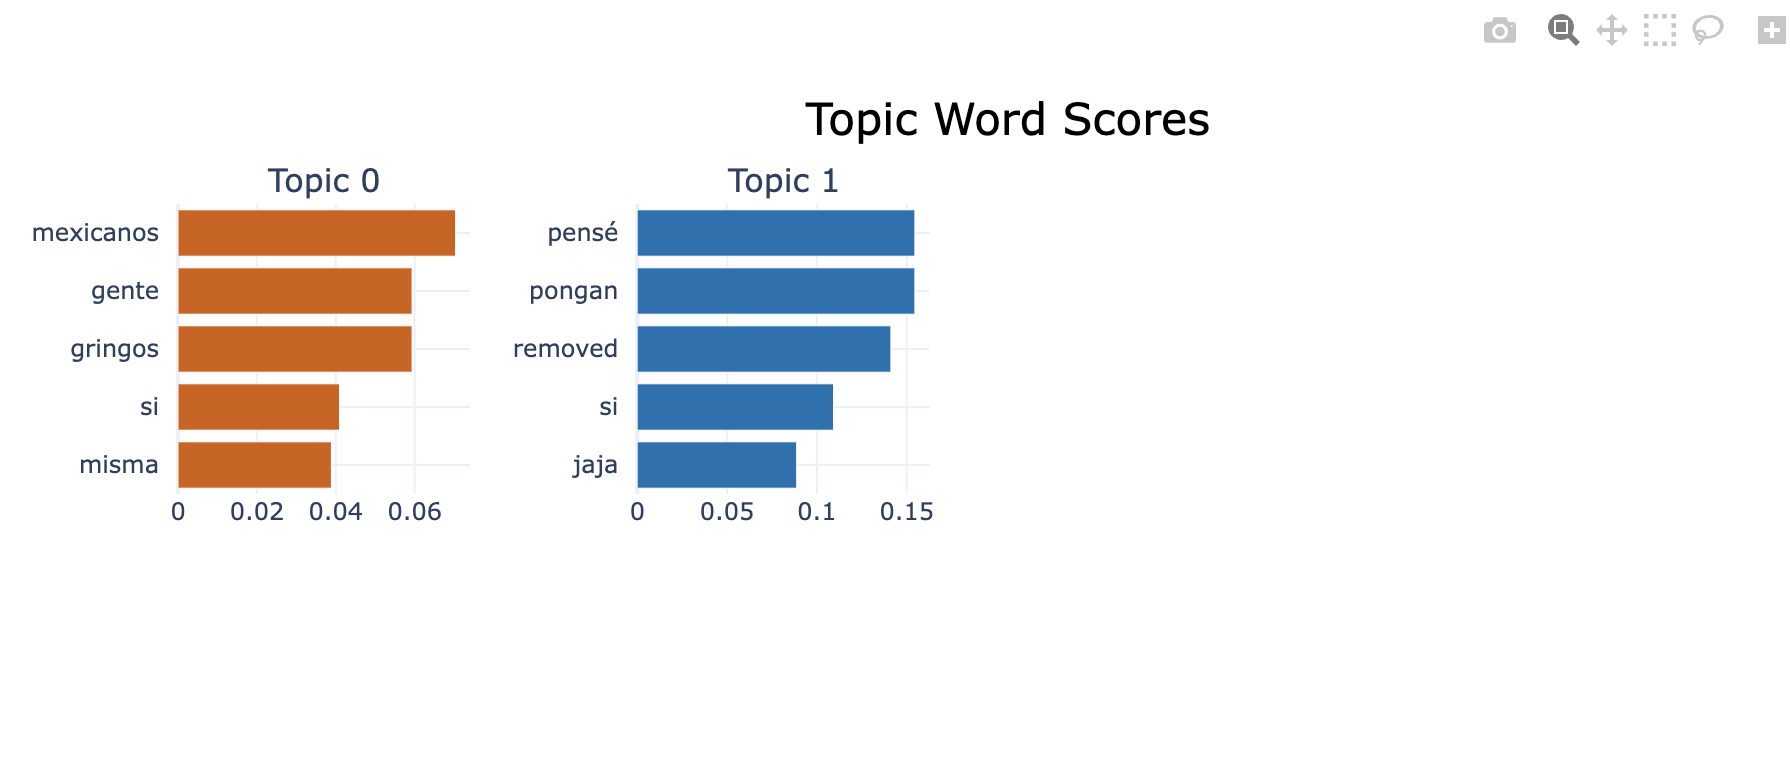
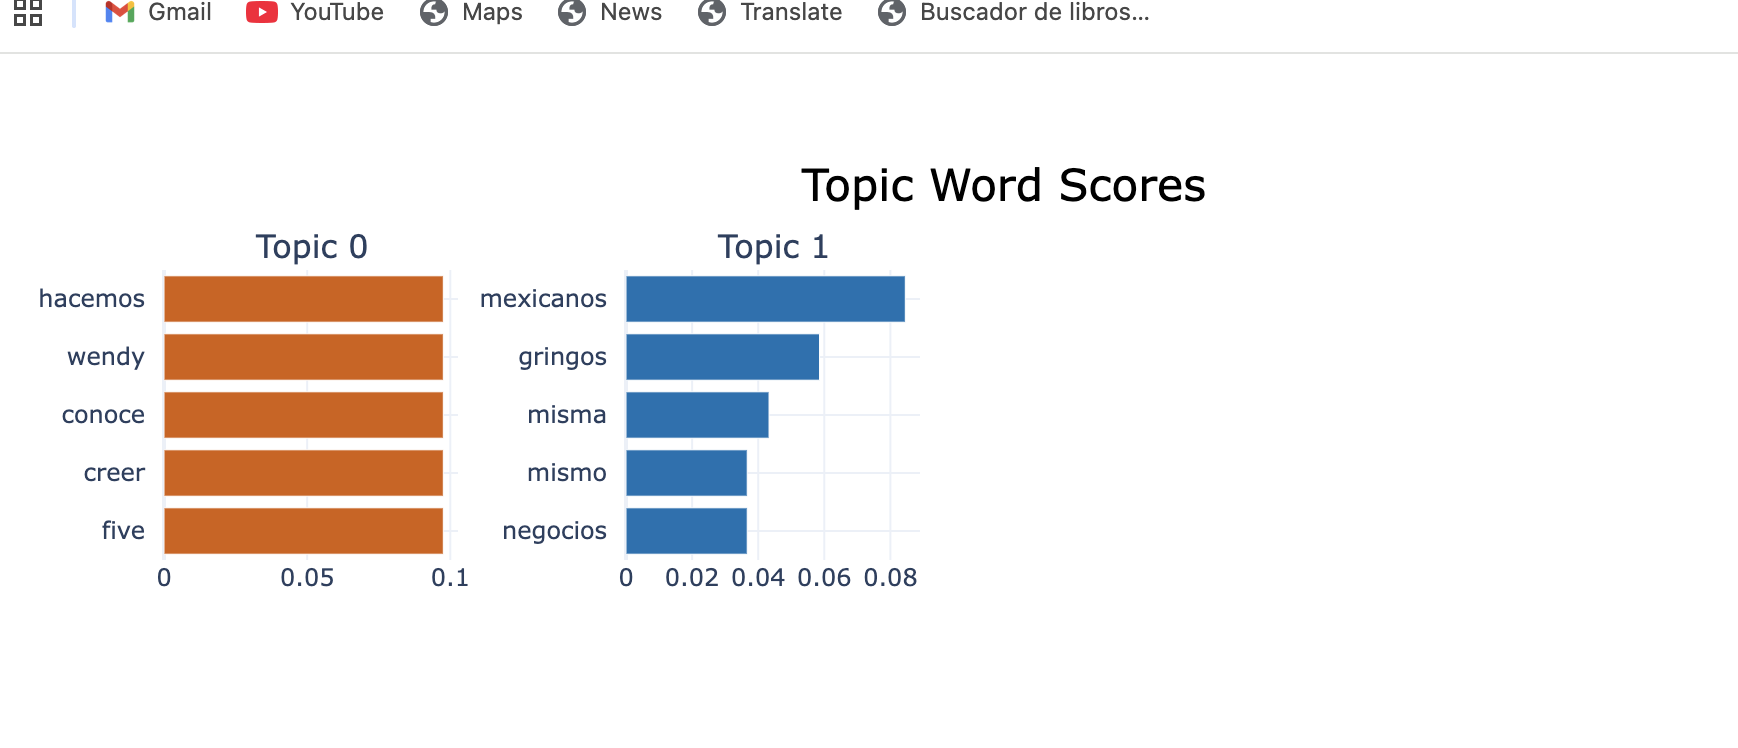
Add files via upload

diff --git a/Topic.py b/Topic.py
@@ -1,11 +1,11 @@
 import pandas as pd
 from bertopic import BERTopic
 from sklearn.feature_extraction.text import CountVectorizer
-pd.set_option('display.max_columns', None)
+pd.set_option("display.max_columns", None)
 import nltk
 from nltk.corpus import stopwords #nltk es la librería de procesamiento de lenguaje natural más usada
 #.corpus es el archivo
-nltk.download('stopwords')
+nltk.download("stopwords")
 
 
 print ("Iniciando el Projecto 2 - Topic Modeling....")
@@ -25,10 +25,37 @@ comentarios = df["Frase"].astype(str).tolist() #Todos los elementos de la column
 
 print (f"Se cargaron {len(comentarios)} comentarios para anazlizar.")
 
+print("\n" * 2)
+print("Creando filtro de stop words con lista personalizada...")
+
+custom_stop_words=["removed",
+                   "comment",
+                   "https",
+                   "www",
+                   "com",
+                   "cdmx",
+                   "jajaj",
+                   "jajaja",
+                   "jajajjaja",
+                   "jaja",
+                   "jeje",
+                   "jejeje",
+                   "pues",
+                   "gente",
+                   "pensé",
+                   "pongan",
+                   "digo",
+                   "xd",
+                   "si",
+                   "lol"
+]
+
 lista_stop_words_espanol = stopwords.words('spanish')
-vectorizer = CountVectorizer(stop_words=lista_stop_words_espanol)
+lista_stop__words_total= lista_stop_words_espanol + custom_stop_words
+vectorizer = CountVectorizer(stop_words=lista_stop__words_total)
 #CountVectorizer convierte el texto en una matriz de conteo de palabras
 #Quita las palabras vacías en español usando la lista de stopwords de nltk (de "relleno")
+
 
 #Ahora sí, a hacer Topic Modeling con el AI
 
@@ -104,14 +131,14 @@ print("\n")
 
 id_tema = tema_principal['Topic']
 if id_tema == 0: 
-    print("Se puede inferir que la opinión NEGATIVA es debido a que el tema central es la CONFRONTACIÓN.")
-    print("Las palabras clave (mexicanos, gringos, gente) sugieren una discusión sobre conflictos culturales o la presencia y comportamiento de extranjeros en la zona.")
+    print("Se puede inferir que la opinión NEGATIVA es debido a que el tema central es la CONFRONTACIÓN SOCIOECONÓMICA.")
+    print("Las palabras clave (mexicanos, gringos, negocios) sugieren un conflicto que no es solo cultural, sino que está directamente ligado a los negocios y al impacto económico.")
 
 elif id_tema == 1: 
-    print("La conclusión es neutral. El tema central parece ser la LOGÍSTICA (transporte, vivienda).")
+    print("La conclusión es NEUTRAL. El tema central (hacemos, wendy, five) parece ser una conversación fuera de tema (off-topic) y no relevante para el análisis.")
 
 else:
-    print("No se pudo inferir una conclusión específica para este tema.")
+    print("No se pudo decidir una conclusión específica para este tema.")
 
 print("\n")
 print("Fin del Projecto 2 - Topic Modeling.")
